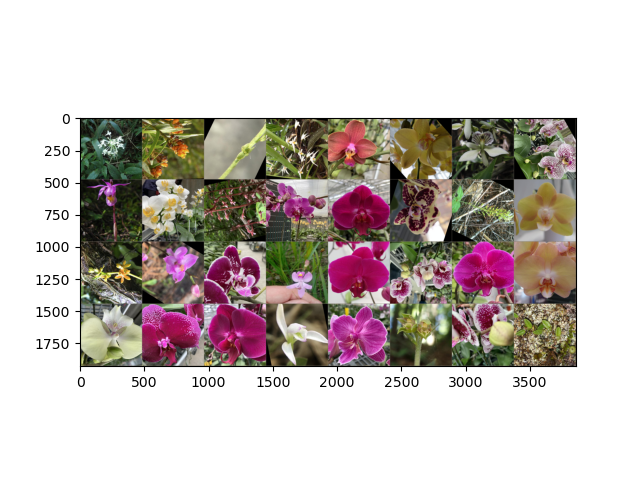
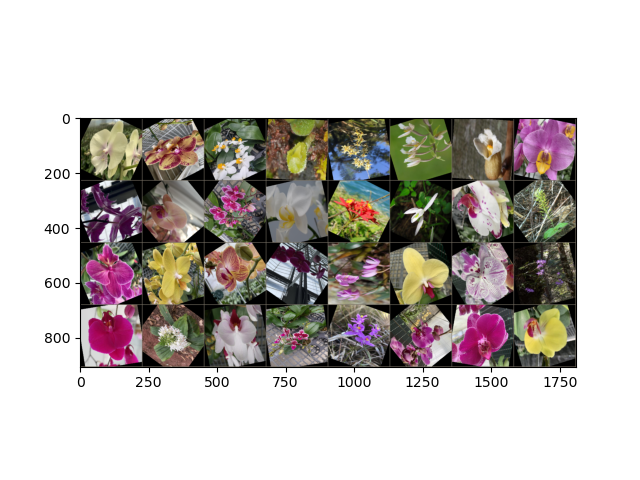
水平翻轉+垂直翻轉+隨機旋轉

diff --git a/hw2.py b/hw2.py
@@ -61,14 +61,18 @@ data_transforms = {
             # transforms.CenterCrop((480,480)),
             # torchvision.transforms.RandomHorizontalFlip(p=0.5),
             # torchvision.transforms.RandomRotation(20),
-            # transforms.Resize((224,224) ),
+            transforms.Resize((224,224) ),
 
-            transforms.RandomChoice([
-              transforms.RandomHorizontalFlip(p=0.5),
-              transforms.RandomVerticalFlip(p=0.5),
-              transforms.RandomRotation(180),
-            ]),
-            transforms.CenterCrop((480,480)),
+            # transforms.RandomChoice([
+            #   transforms.RandomHorizontalFlip(p=0.5),
+            #   transforms.RandomVerticalFlip(p=0.5),
+            #   transforms.RandomRotation(180),
+            # ]),
+            # transforms.CenterCrop((480,480)),
+
+            torchvision.transforms.RandomHorizontalFlip(p=0.5),
+            torchvision.transforms.RandomVerticalFlip(p=0.5),
+            torchvision.transforms.RandomRotation(40),
 
             ########################################
             transforms.ToTensor(),
